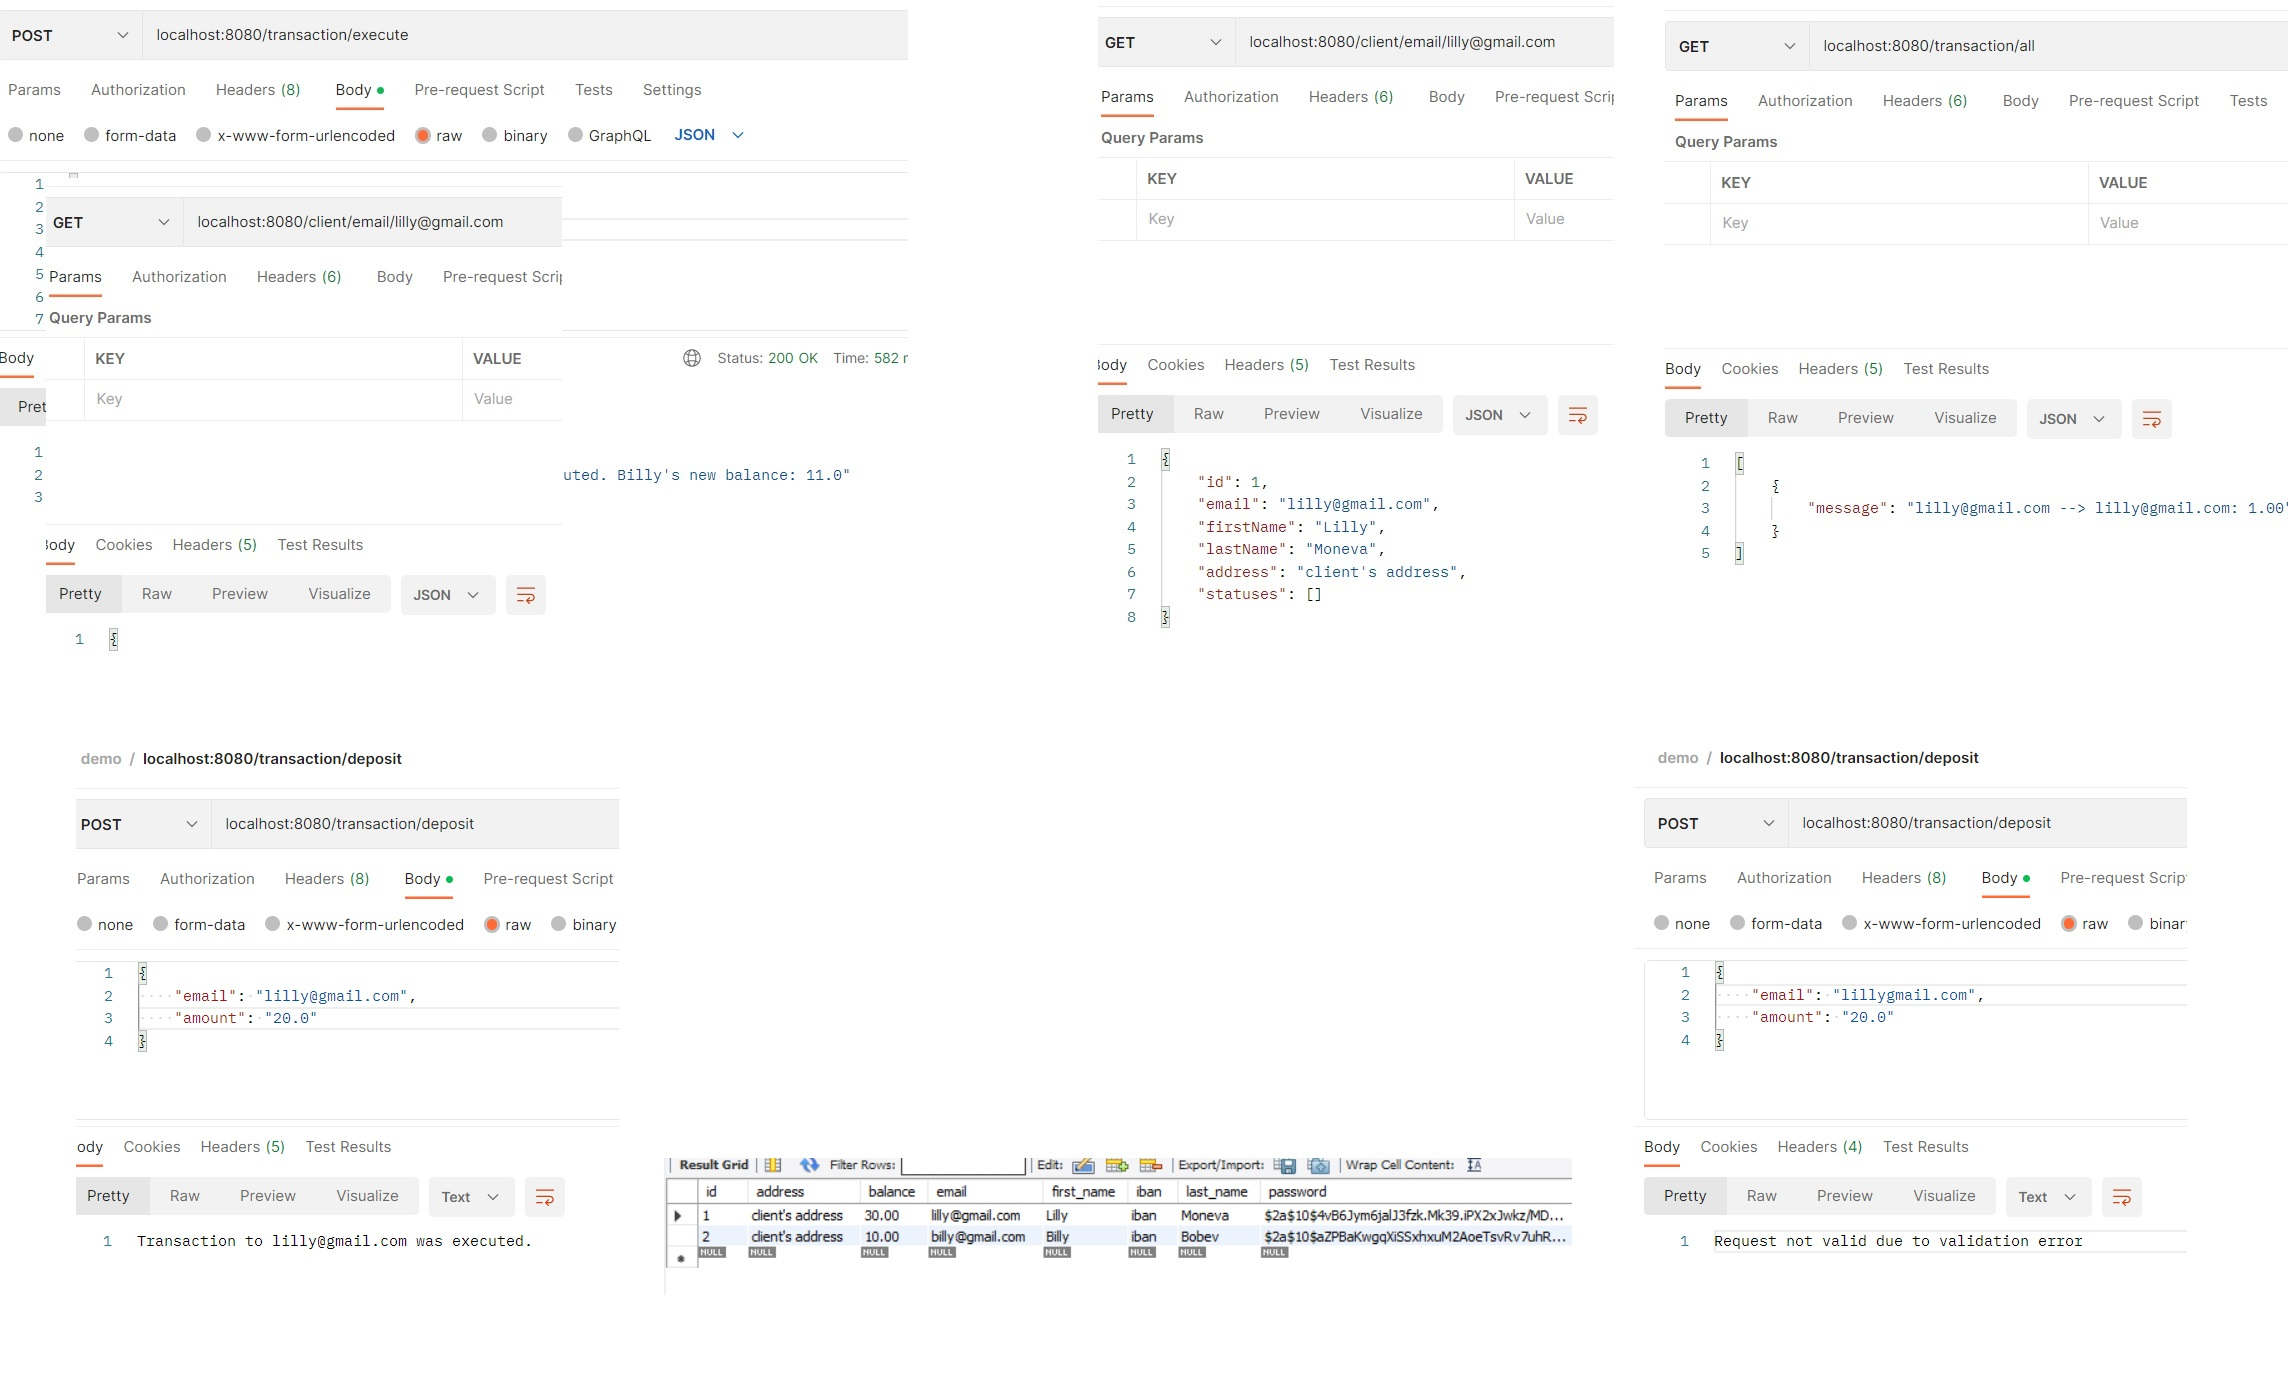
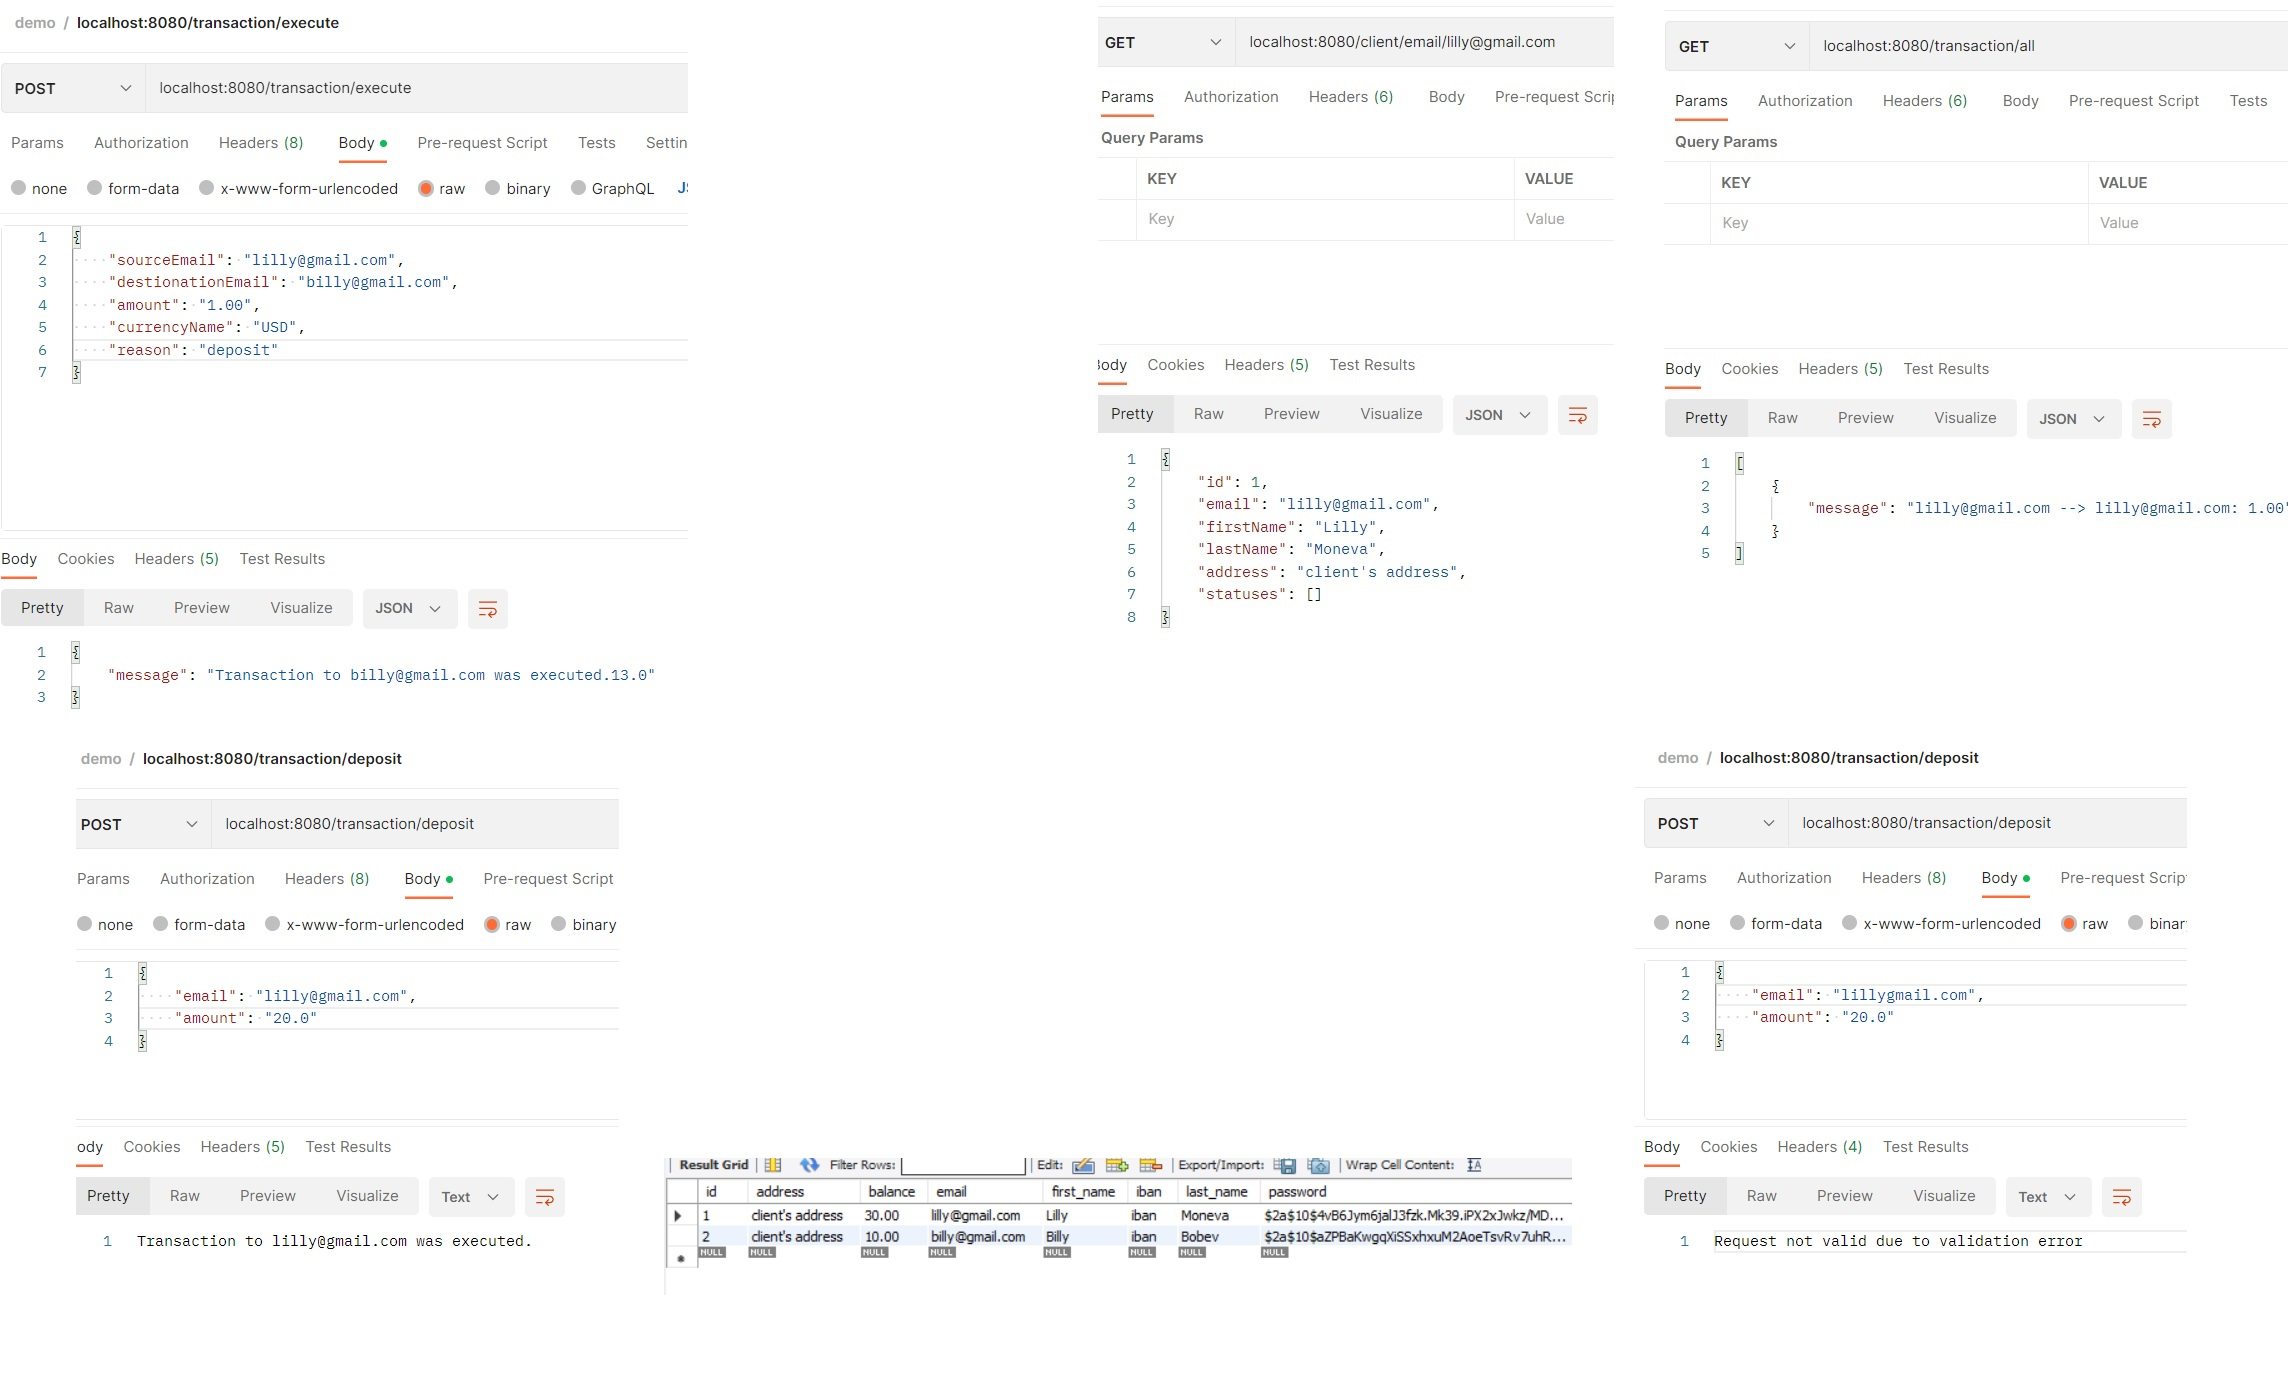
ClientConverts moved to ClientController

diff --git a/src/main/java/com/example/demo/convertor/ClientConvertor.java b/src/main/java/com/example/demo/convertor/ClientConvertor.java
@@ -1,18 +1,15 @@
 package com.example.demo.convertor;
 
-
-import com.example.demo.dto.ClientPasswordUpdate;
 import com.example.demo.dto.ClientRequest;
 import com.example.demo.dto.ClientResponse;
 import com.example.demo.entity.Client;
 import com.example.demo.entity.Status;
-
+import com.example.demo.repository.StatusRepository;
 import org.springframework.beans.factory.annotation.Autowired;
 import org.springframework.security.crypto.bcrypt.BCryptPasswordEncoder;
 import org.springframework.stereotype.Component;
-
 import java.math.BigDecimal;
-
+import java.util.Optional;
 import java.util.Set;
 
 
@@ -23,15 +20,22 @@ public class ClientConvertor {
 
     @Autowired
     BCryptPasswordEncoder bCryptPasswordEncoder;
+    @Autowired
+    private StatusRepository statusRepository;
 
 
     public Client toClient(ClientRequest clientRequest){
         UUID uuid = UUID.randomUUID();
+        Optional<Status> status = statusRepository.findByStatusName(clientRequest.getStatus());
+        Status statusClient = null;
+        if(status.isPresent()) {
+            statusClient = status.get();
+        }
         return Client.builder().firstName(clientRequest.getFirstName())
                 .lastName(clientRequest.getLastName())
                 .address(clientRequest.getAddress())
                 .email(clientRequest.getEmail())
-
+                .statuses(Set.of(statusClient))
                 .iban(uuid.toString()) //sets the iban
                 .password(bCryptPasswordEncoder.encode( clientRequest.getPassword()))
                 .balance(new BigDecimal("0"))    //default = 0
@@ -47,6 +51,5 @@ public class ClientConvertor {
                 .email(client.getEmail())
                 .statuses(client.getStatuses())
                 .build();
-
     }
 }

diff --git a/src/main/java/com/example/demo/dto/ClientRequest.java b/src/main/java/com/example/demo/dto/ClientRequest.java
@@ -3,13 +3,10 @@ package com.example.demo.dto;
 import jakarta.validation.constraints.Email;
 import jakarta.validation.constraints.Pattern;
 import jakarta.validation.constraints.Size;
-import lombok.AllArgsConstructor;
 import lombok.Getter;
-import lombok.NoArgsConstructor;
 import lombok.Setter;
 
-@NoArgsConstructor
-@AllArgsConstructor
+
 @Getter
 @Setter
 public class ClientRequest {
@@ -17,14 +14,15 @@ public class ClientRequest {
     private String firstName;
     @Size(min =3, message = "Client first name should contain more than 2 characters")
     private String lastName;
-    @Email(message = "Email should have proper email format")
+    @Email(regexp = "[a-z0-9._%+-]+@[a-z0-9.-]+.[a-z]{2,3}",
+            flags = Pattern.Flag.CASE_INSENSITIVE, message = "Email should have proper email format")
     private String email;
-    @Pattern(regexp = "^(?=.*?[A-Z])(?=(.*[a-z]){1,})(?=(.*[\\d]){1,})(?=(.*[\\W]){1,})(?!.*\\s).{8,}$", message = "" +
-            "At least one upper case English letter\n" +
-            "At least one lower case English letter\n" +
-            "At least one digit\n" +
-            "At least one special character\n" +
-            "Minimum eight in length")
+    @Pattern(regexp = "^(?=.*?[A-Z])(?=(.*[a-z]){1,})(?=(.*[\\d]){1,})(?=(.*[\\W]){1,})(?!.*\\s).{8,}$", message = """
+            At least one upper case English letter
+            At least one lower case English letter
+            At least one digit
+            At least one special character
+            Minimum eight in length""")
     private String password;
     private String status; //no need to be Status
     private String address;

diff --git a/src/main/java/com/example/demo/service/impl/ClientServiceImpl.java b/src/main/java/com/example/demo/service/impl/ClientServiceImpl.java
@@ -2,11 +2,9 @@ package com.example.demo.service.impl;
 
 import com.example.demo.convertor.ClientConvertor;
 import com.example.demo.dto.ClientPasswordUpdate;
-import com.example.demo.dto.ClientRequest;
 import com.example.demo.dto.ClientResponse;
 import com.example.demo.dto.LoginRequest;
 import com.example.demo.entity.Client;
-import com.example.demo.entity.Status;
 import com.example.demo.exception.RecordNotFoundException;
 import com.example.demo.repository.ClientRepository;
 import com.example.demo.service.ClientService;
@@ -35,11 +33,13 @@ public class ClientServiceImpl implements ClientService {
     }
 
     @Override
-    public Client saveClient(ClientRequest clientRequest) {
-        Status status = statusService.findByName(clientRequest.getStatus()); //Check if status exists in status table
-        Client clientToBeSaved = clientConvertor.toClient(clientRequest);
-        clientToBeSaved.setStatuses(Set.of(status));
-        return clientRepository.save(clientToBeSaved);
+    public Client saveClient(Client client) {
+
+//        Status status = statusService.findByName(clientRequest.getStatus()); //Check if status exists in status table
+//        Client clientToBeSaved = clientConvertor.toClient(clientRequest);
+//        clientToBeSaved.setStatuses(Set.of(status));
+//        return clientRepository.save(clientToBeSaved);
+       return clientRepository.save(client);
     }
 
     @Override

diff --git a/src/main/java/com/example/demo/controller/ClientController.java b/src/main/java/com/example/demo/controller/ClientController.java
@@ -2,6 +2,7 @@ package com.example.demo.controller;
 
 import com.example.demo.convertor.ClientConvertor;
 import com.example.demo.dto.*;
+import com.example.demo.entity.Client;
 import com.example.demo.service.ClientService;
 import jakarta.transaction.Transactional;
 import jakarta.validation.Valid;
@@ -10,22 +11,21 @@ import org.springframework.http.HttpStatus;
 import org.springframework.http.ResponseEntity;
 import org.springframework.web.bind.annotation.*;
 
-
 @RestController
 @RequestMapping(path = "/client")
 public class ClientController {
 
     @Autowired
     ClientService clientService;
-
     @Autowired
     ClientConvertor clientConvertor;
 
-    @PostMapping
-    ResponseEntity<ClientResponse> save(@RequestBody ClientRequest clientRequest) {
+    @PostMapping(path = "/save")
+    ResponseEntity<ClientResponse> save(@Valid @RequestBody ClientRequest clientRequest) {
+        Client client = clientConvertor.toClient(clientRequest);
         return ResponseEntity
                 .status(HttpStatus.CREATED)
-                .body(clientConvertor.toResponse(clientService.saveClient(clientRequest)));
+                .body(clientConvertor.toResponse(clientService.saveClient(client)));
     }
 
     @PostMapping(path = "/login")

diff --git a/src/main/java/com/example/demo/convertor/TransactionConvertor.java b/src/main/java/com/example/demo/convertor/TransactionConvertor.java
@@ -5,22 +5,18 @@ import com.example.demo.entity.Client;
 import com.example.demo.entity.Currency;
 import com.example.demo.entity.Transaction;
 import com.example.demo.repository.TransactionRepository;
+import lombok.AllArgsConstructor;
 import org.springframework.stereotype.Component;
 import java.math.BigDecimal;
 import java.time.Instant;
 
 @Component
 public class TransactionConvertor {
-    private final TransactionRepository transactionRepository;
 
-    public TransactionConvertor(TransactionRepository transactionRepository) {
-        this.transactionRepository = transactionRepository;
-    }
-
-    public Transaction toTransaction(Client sender, Client reciever, Currency currency, BigDecimal amount, String reason){
+    public Transaction toTransaction(Client sender, Client receiver, Currency currency, BigDecimal amount, String reason){
         return Transaction.builder()
                 .sender(sender)
-                .receiver(reciever)
+                .receiver(receiver)
                 .currency(currency)
                 .reason(reason)
                 .date(Instant.now())

diff --git a/src/main/java/com/example/demo/controller/StatusController.java b/src/main/java/com/example/demo/controller/StatusController.java
@@ -5,6 +5,7 @@ import com.example.demo.dto.StatusRequest;
 import com.example.demo.dto.StatusResponse;
 import com.example.demo.entity.Status;
 import com.example.demo.service.impl.StatusServiceImpl;
+import jakarta.validation.Valid;
 import org.springframework.beans.factory.annotation.Autowired;
 import org.springframework.http.HttpStatus;
 import org.springframework.http.ResponseEntity;
@@ -23,7 +24,7 @@ public class StatusController {
     StatusConvertor statusConvertor;
 
     @PostMapping
-    ResponseEntity<StatusResponse> save (@RequestBody StatusRequest statusRequest) throws SQLIntegrityConstraintViolationException {
+    ResponseEntity<StatusResponse> save (@Valid @RequestBody StatusRequest statusRequest) throws SQLIntegrityConstraintViolationException {
         Status status = statusConvertor.convertToStatus(statusRequest);
         Status savedStatus = statusServiceImpl.addStatus(status);
         StatusResponse statusResponse = statusConvertor.convertToStatusResponse(savedStatus);

diff --git a/src/main/java/com/example/demo/service/impl/TransactionServiceImpl.java b/src/main/java/com/example/demo/service/impl/TransactionServiceImpl.java
@@ -15,10 +15,7 @@ import com.example.demo.util.trnUtil;
 import lombok.AllArgsConstructor;
 import org.springframework.beans.factory.annotation.Autowired;
 import org.springframework.stereotype.Service;
-import org.springframework.web.bind.MethodArgumentNotValidException;
-
 import java.util.HashSet;
-import java.util.Optional;
 import java.util.Set;
 
 import static java.math.BigDecimal.valueOf;
@@ -51,7 +48,7 @@ public class TransactionServiceImpl implements TransactionService {
         Transaction savedTransaction = transactionRepository.save(trn);
         System.out.print("sender new balance: " + sender.getBalance());
         System.out.print("receiver new balance: " + receiver.getBalance());
-        return new TransactionResponse(String.format("Transaction to %s was executed.",
+        return new TransactionResponse(String.format("Transaction to %s was executed. ",
                 receiver.getEmail()) + receiver.getBalance());
     }
 

diff --git a/src/main/java/com/example/demo/controller/CurrencyController.java b/src/main/java/com/example/demo/controller/CurrencyController.java
@@ -20,12 +20,11 @@ public class CurrencyController {
 
     @Autowired
     CurrencyServiceImpl currencyServiceImpl;
-
     @Autowired
     CurrencyConvertor currencyConvertor;
 
     @PostMapping
-    ResponseEntity<CurrencyResponse> save(@Valid @RequestBody CurrencyRequest currencyRequest) throws SQLIntegrityConstraintViolationException {
+    ResponseEntity<CurrencyResponse> save(@Valid @RequestBody CurrencyRequest currencyRequest){
         Currency currency = currencyConvertor.convertToCurrency(currencyRequest);
         Currency currencySaved = currencyServiceImpl.addCurrency(currency);
         CurrencyResponse currencyResponse = currencyConvertor.convertToCurrencyResponse(currencySaved);

diff --git a/src/main/java/com/example/demo/dto/LoginRequest.java b/src/main/java/com/example/demo/dto/LoginRequest.java
@@ -3,19 +3,18 @@ package com.example.demo.dto;
 
 import jakarta.validation.constraints.Email;
 import jakarta.validation.constraints.NotNull;
-import lombok.AllArgsConstructor;
+import jakarta.validation.constraints.Pattern;
 import lombok.Getter;
-import lombok.NoArgsConstructor;
 
 import lombok.Setter;
-
+import org.springframework.stereotype.Component;
+@Component
 @Getter
 @Setter
-@AllArgsConstructor
-@NoArgsConstructor
 public class LoginRequest {
     @NotNull
-    @Email
+    @Email(regexp = "[a-z0-9._%+-]+@[a-z0-9.-]+.[a-z]{2,3}",
+            flags = Pattern.Flag.CASE_INSENSITIVE)
     String email;
     @NotNull
     String password;

diff --git a/src/main/java/com/example/demo/service/ClientService.java b/src/main/java/com/example/demo/service/ClientService.java
@@ -1,7 +1,6 @@
 package com.example.demo.service;
 
 import com.example.demo.dto.ClientPasswordUpdate;
-import com.example.demo.dto.ClientRequest;
 import com.example.demo.dto.ClientResponse;
 import com.example.demo.dto.LoginRequest;
 import com.example.demo.entity.Client;
@@ -11,7 +10,7 @@ import java.util.Set;
 
 public interface ClientService {
 
-    Client saveClient(ClientRequest client);
+    Client saveClient(Client client);
     void updateClient(ClientPasswordUpdate clientPasswordUpdate);
     Client getClient(Long id);
     void deleteClient(Long id);

diff --git a/src/main/java/com/example/demo/dto/TransactionRequest.java b/src/main/java/com/example/demo/dto/TransactionRequest.java
@@ -2,17 +2,13 @@ package com.example.demo.dto;
 
 import jakarta.validation.constraints.Email;
 import jakarta.validation.constraints.NotNull;
-import lombok.AllArgsConstructor;
 import lombok.Getter;
-import lombok.NoArgsConstructor;
 import lombok.Setter;
 import org.springframework.stereotype.Component;
 
 @Component
 @Getter
 @Setter
-@AllArgsConstructor
-@NoArgsConstructor
 public class TransactionRequest {
 
     @NotNull

diff --git a/src/main/java/com/example/demo/dto/StatusRequest.java b/src/main/java/com/example/demo/dto/StatusRequest.java
@@ -1,13 +1,11 @@
 package com.example.demo.dto;
 
 import jakarta.validation.constraints.NotNull;
-import lombok.AllArgsConstructor;
 import lombok.Getter;
-import lombok.NoArgsConstructor;
 import lombok.Setter;
+import org.springframework.stereotype.Component;
 
-@NoArgsConstructor
-@AllArgsConstructor
+@Component
 @Getter
 @Setter
 public class StatusRequest {
